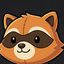
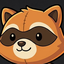
📝 docs(mods): Optimizations workshop id, cleaner listings, trimmed comments
Adds the Optimizations Workshop link now the item exists (3790863696), and points Fast Loading's
companion link at it instead of the author profile page.

Drops the texcap section from the Fast Loading listing: it is an opt-in switch with a visible
quality cost, and the README documents it in full. Rebuilds the Optimizations key art from the
source image, which removes the flat border the previous canvas padding left around every edge.

Source comments lose this project's own history and three pointers to files that exist only in
the private workspace, since nobody reading here can follow them.

diff --git a/Lugli_Optimizations/java/lugli/optimizations/Main.java b/Lugli_Optimizations/java/lugli/optimizations/Main.java
@@ -12,20 +12,15 @@ package lugli.optimizations;
  *   - it carries a runtime self-test and DISARMS ITSELF rather than risk a visual defect;
  *   - it reports whether its advice actually installed -- see PatchAudit.
  *
- * DEFAULTS, stated exactly. This header once claimed "everything is ON" and that was false for
- * two of five parts, which is how `roomindex` sat inert for weeks while the mod claimed to work.
- * A part that is OFF has not earned ON yet.
+ * DEFAULTS. A part that is OFF has not earned ON yet.
  *
  *   windgate    fast     ON   -- the headline part
- *   zextents    fast     ON   -- exact and self-verifying. Same answer, far less work, and
- *                              two orders of magnitude under the noise floor. Never quote it
- *   roomindex   fast     ON   -- the same shape. Never quote it
- *   uistagger   off      OFF  -- real on its own metric, but frame-time bands overlap
- *   chunklua    observe  OFF  -- counts and stands aside. `spread` is lossless but costs the
- *                                mean (p50 +5.7 %, p90 +7.4 %)
+ *   zextents    fast     ON   -- exact and self-verifying, but far under the noise floor
+ *   roomindex   fast     ON   -- the same shape
+ *   uistagger   off      OFF  -- real on its own metric, but the frame-time bands overlap
+ *   chunklua    observe  OFF  -- lossless, but `spread` costs the mean (p50 +5.7 %, p90 +7.4 %)
  *
- * The measured result and the conditions attached to it live in the mod's README, not here. A
- * javadoc that carries campaign history goes stale silently.
+ * Measured results and the conditions attached to them live in the README, not here.
  *
  * Nothing here may touch zombie.* at premain: the game classes are on the classpath but not
  * initialised, so loading one early can change static-initialiser order.

diff --git a/Lugli_Optimizations/java/lugli/optimizations/WindGate.java b/Lugli_Optimizations/java/lugli/optimizations/WindGate.java
@@ -10,14 +10,8 @@ import zombie.iso.objects.ObjectRenderEffects;
  * Keep "Wind Sprite Effects" ON, but stop paying for it while the wind is not actually moving
  * anything. -Dlugli.opt.windgate=off|observe|fast (default fast).
  *
- * NOTE ON THE PROPERTY NAME. This header used to read `-Dlugli.windgate ... (default off)`, which
- * was wrong on both counts -- it was copied from src/Dev/lugli/dev/WindGate.java, the dev-gated
- * original, and never updated when the part shipped. It matters more than a typo: every recorded
- * wind-gate A/B on this project was armed with `-Dlugli.windgate=fast`, i.e. the DEV jar's switch,
- * so the published "+31 % fps" figure has never been re-measured against the property this file
- * actually reads. The two implementations diff as behaviourally identical, but identical on
- * inspection is not measured. Until it is re-run under -Dlugli.opt.windgate, no number from this
- * part is quotable.
+ * The switch is `-Dlugli.opt.windgate`. An earlier dev-only build read `-Dlugli.windgate`, so any
+ * figure quoting that name predates this file and does not describe it.
  *
  * THE COST BEING TARGETED (measured here, 6-run A/B, non-overlapping bands)
  *   Turning the option off moved p50 7.879-8.080 -> 6.219-6.471 ms (-20 %) and p90 ~17.2 ->

diff --git a/Lugli_Optimizations/java/lugli/optimizations/ChunkLuaSpread.java b/Lugli_Optimizations/java/lugli/optimizations/ChunkLuaSpread.java
@@ -32,7 +32,7 @@ import zombie.iso.IsoWorld;
  *   event once per non-empty square (IsoChunk.java:3802-3837) to every registered handler.
  *
  * WHY NOT CAP THE CHUNK DRAIN
- *   Tried and REJECTED -- see src/Dev/lugli/dev/ChunkBudget.java. Deferring the chunk itself
+ *   Tried and REJECTED. Deferring the chunk itself
  *   decouples `chunk.loaded` from vehicle streaming and produces
  *   NullPointerException: Cannot read field "vehicles" because "this.chunk" is null.
  *   The queue's drain RATE is an invariant other systems depend on.

diff --git a/README.md b/README.md
@@ -8,7 +8,7 @@ versions are on the Workshop; these are the sources behind them.
 | mod | what it does | workshop |
 |---|---|---|
 | [Lugli_FastLoading](Lugli_FastLoading) | Cuts loading time. On a 300+ mod list, 47s to 32s to the menu and 130s to 90s to be in the world. On vanilla, 37s to 27s to be in the world. | [3787104045](https://steamcommunity.com/sharedfiles/filedetails/?id=3787104045) |
-| [Lugli_Optimizations](Lugli_Optimizations) | Cuts frame time by stopping the engine redrawing what is not moving. In vegetation, -16% at the median and -18% at the 90th percentile. In a city centre, -9% at the 90th and no median gain. | [pending first upload](https://steamcommunity.com/profiles/76561198172703919/myworkshopfiles/) |
+| [Lugli_Optimizations](Lugli_Optimizations) | Cuts frame time by stopping the engine redrawing what is not moving. In vegetation, -16% at the median and -18% at the 90th percentile. In a city centre, -9% at the 90th and no median gain. | [3790863696](https://steamcommunity.com/sharedfiles/filedetails/?id=3790863696) |
 
 Measured on 42.20.4 with 337 mods: same machine, same save, arms interleaved A,B,A,B, every run
 checked against its own log, the first pair of each campaign discarded as cold. Numbers move
